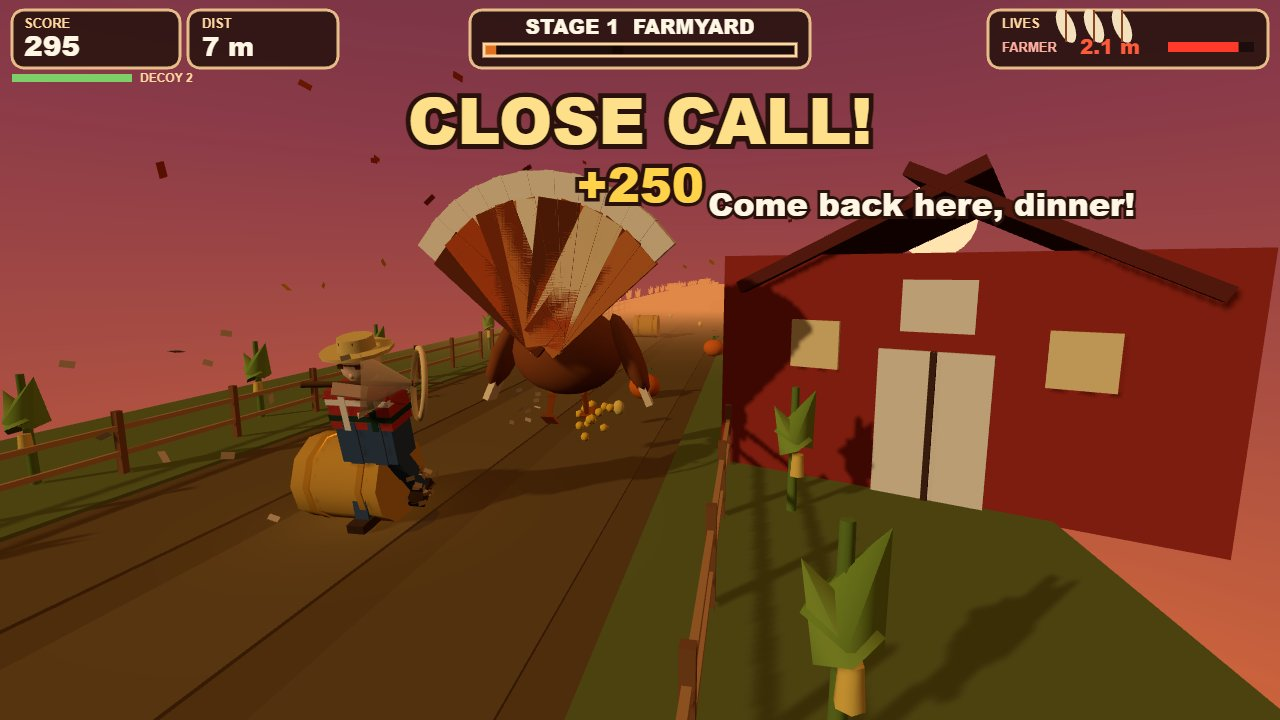
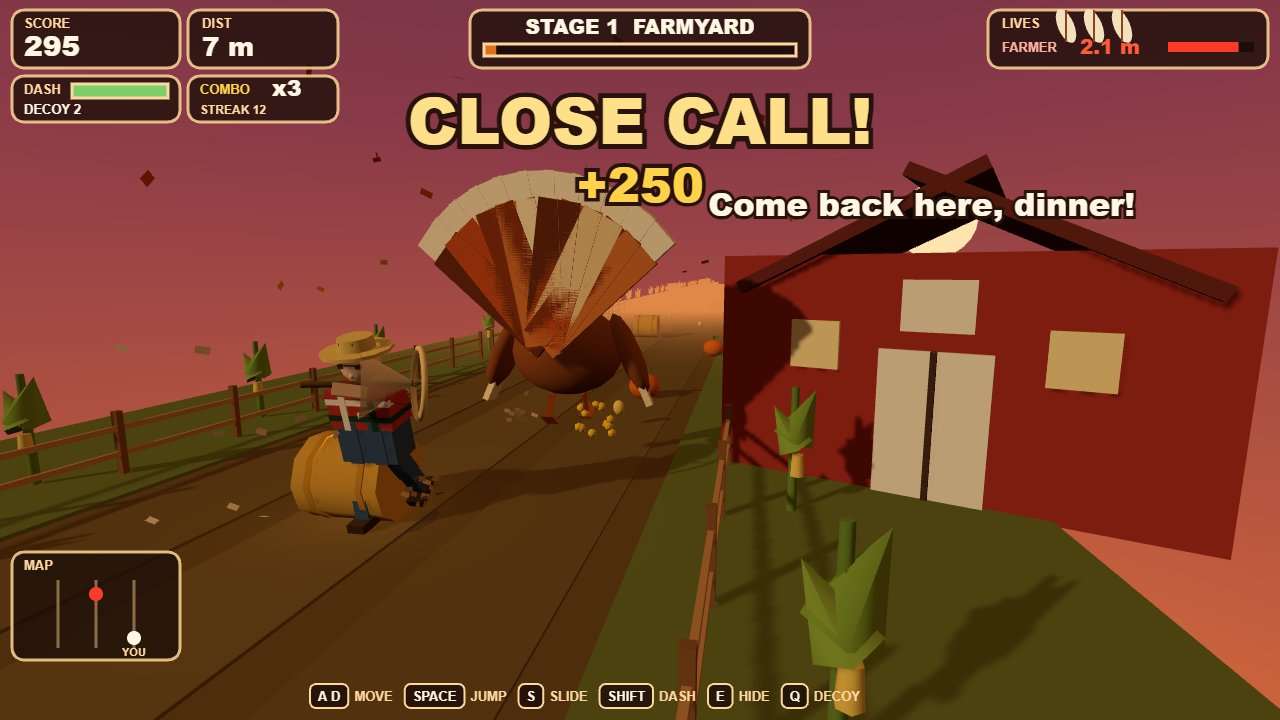
V2: HUD

diff --git a/game/src/hud.js b/game/src/hud.js
@@ -45,6 +45,61 @@ export function createHud(canvas) {
     ctx.restore();
   }
 
+  function drawMap(state, x, y) {
+    panel(x, y, 168, 108);
+    ctx.fillStyle = '#ffd7a0';
+    ctx.font = '700 13px Arial, sans-serif';
+    ctx.fillText('MAP', x + 12, y + 18);
+    const lanes = [x + 46, x + 84, x + 122];
+    ctx.strokeStyle = 'rgba(255, 214, 150, 0.45)';
+    ctx.lineWidth = 3;
+    for (let i = 0; i < lanes.length; i += 1) {
+      ctx.beginPath();
+      ctx.moveTo(lanes[i], y + 28);
+      ctx.lineTo(lanes[i], y + 96);
+      ctx.stroke();
+    }
+    const laneOf = (px) => (px < -1.1 ? 0 : px > 1.1 ? 2 : 1);
+    const birdLane = laneOf(state.birdX || 0);
+    const hankLane = laneOf(state.farmerX == null ? state.birdX || 0 : state.farmerX);
+    const gap = Math.max(0, Math.min(1, (state.farmerDist || 4) / 10));
+    ctx.fillStyle = '#fff6e4';
+    ctx.beginPath();
+    ctx.arc(lanes[birdLane], y + 86, 7, 0, Math.PI * 2);
+    ctx.fill();
+    ctx.fillStyle = state.farmerDist < 3.2 ? '#ff3a2a' : '#ffb030';
+    ctx.beginPath();
+    ctx.arc(lanes[hankLane], y + 36 + gap * 28, 7, 0, Math.PI * 2);
+    ctx.fill();
+    ctx.fillStyle = '#ffd7a0';
+    ctx.font = '700 11px Arial, sans-serif';
+    ctx.fillText('YOU', lanes[birdLane] - 12, y + 104);
+  }
+
+  function drawKeys(w, h) {
+    const keys = ['A D', 'SPACE', 'S', 'SHIFT', 'E', 'Q'];
+    const names = ['MOVE', 'JUMP', 'SLIDE', 'DASH', 'HIDE', 'DECOY'];
+    const y = h - 36;
+    let x = w / 2 - 330;
+    ctx.font = '700 13px Arial, sans-serif';
+    for (let i = 0; i < keys.length; i += 1) {
+      const label = keys[i];
+      const tw = ctx.measureText(label).width;
+      const bw = tw + 16;
+      ctx.fillStyle = 'rgba(28, 14, 8, 0.82)';
+      ctx.strokeStyle = '#ffd7a0';
+      ctx.lineWidth = 2;
+      roundRect(x, y, bw, 24, 6);
+      ctx.fill();
+      ctx.stroke();
+      ctx.fillStyle = '#fff6e4';
+      ctx.fillText(label, x + 8, y + 17);
+      ctx.fillStyle = '#ffd7a0';
+      ctx.fillText(names[i], x + bw + 6, y + 17);
+      x += bw + ctx.measureText(names[i]).width + 18;
+    }
+  }
+
   function draw(state) {
     const w = window.innerWidth;
     const h = window.innerHeight;
@@ -101,23 +156,44 @@ export function createHud(canvas) {
     ctx.fillStyle = danger ? '#ff3a2a' : '#f0a030';
     ctx.fillRect(w - 112, 42, 86 * gauge, 10);
 
-    ctx.fillStyle = 'rgba(20,10,6,0.55)';
-    ctx.fillRect(12, 74, 120, 8);
+    panel(12, 76, 168, 46);
+    ctx.fillStyle = '#ffd7a0';
+    ctx.font = '700 13px Arial, sans-serif';
+    ctx.fillText('DASH', 24, 94);
+    ctx.fillStyle = 'rgba(0,0,0,0.45)';
+    ctx.fillRect(72, 84, 96, 14);
     ctx.fillStyle = state.stamina < 0.42 ? '#ff5a3a' : '#7dcf6a';
-    ctx.fillRect(12, 74, 120 * Math.max(0, Math.min(1, state.stamina)), 8);
+    ctx.fillRect(72, 84, 96 * Math.max(0, Math.min(1, state.stamina)), 14);
+    ctx.strokeStyle = '#ffd7a0';
+    ctx.strokeRect(72, 84, 96, 14);
+    ctx.fillStyle = '#fff6e4';
+    ctx.font = '700 13px Arial, sans-serif';
+    ctx.fillText(`DECOY ${state.decoys}`, 24, 114);
+
+    const combo = state.multiplier || 1;
+    panel(188, 76, 150, 46);
+    ctx.fillStyle = combo > 1 ? '#ffd24a' : '#ffd7a0';
+    ctx.font = '700 13px Arial, sans-serif';
+    ctx.fillText('COMBO', 200, 94);
+    ctx.fillStyle = '#fff6e4';
+    ctx.font = '900 22px Arial Black, Arial, sans-serif';
+    ctx.fillText(`x${combo}`, 272, 96);
     ctx.fillStyle = '#ffd7a0';
     ctx.font = '700 12px Arial, sans-serif';
-    ctx.fillText(`DECOY ${state.decoys}`, 140, 82);
+    ctx.fillText(`STREAK ${state.streak || 0}`, 200, 114);
+
+    drawMap(state, 12, h - 168);
+    drawKeys(w, h);
 
     if (state.hidden || state.hideMeter > 0.02) {
-      panel(12, 88, 210, 36);
+      panel(12, 128, 210, 36);
       ctx.fillStyle = '#9ad0ff';
       ctx.font = '700 13px Arial, sans-serif';
-      ctx.fillText('HIDDEN', 24, 112);
+      ctx.fillText('HIDDEN', 24, 152);
       ctx.fillStyle = 'rgba(0,0,0,0.45)';
-      ctx.fillRect(90, 102, 116, 10);
+      ctx.fillRect(90, 142, 116, 10);
       ctx.fillStyle = state.hideMeter > 0.75 ? '#ff5a3a' : '#7ec8ff';
-      ctx.fillRect(90, 102, 116 * Math.max(0, Math.min(1, state.hideMeter)), 10);
+      ctx.fillRect(90, 142, 116 * Math.max(0, Math.min(1, state.hideMeter)), 10);
     }
 
     if (state.flash > 0) {

diff --git a/game/src/main.js b/game/src/main.js
@@ -117,6 +117,8 @@ function syncWorld(dt) {
     laneWarn.material.opacity = 0;
   }
   lighting.follow(bird.x, bird.z);
+  state.birdX = bird.x;
+  state.farmerX = farmer.x;
   rig.update(bird, farmer, state, dt);
 }
 
